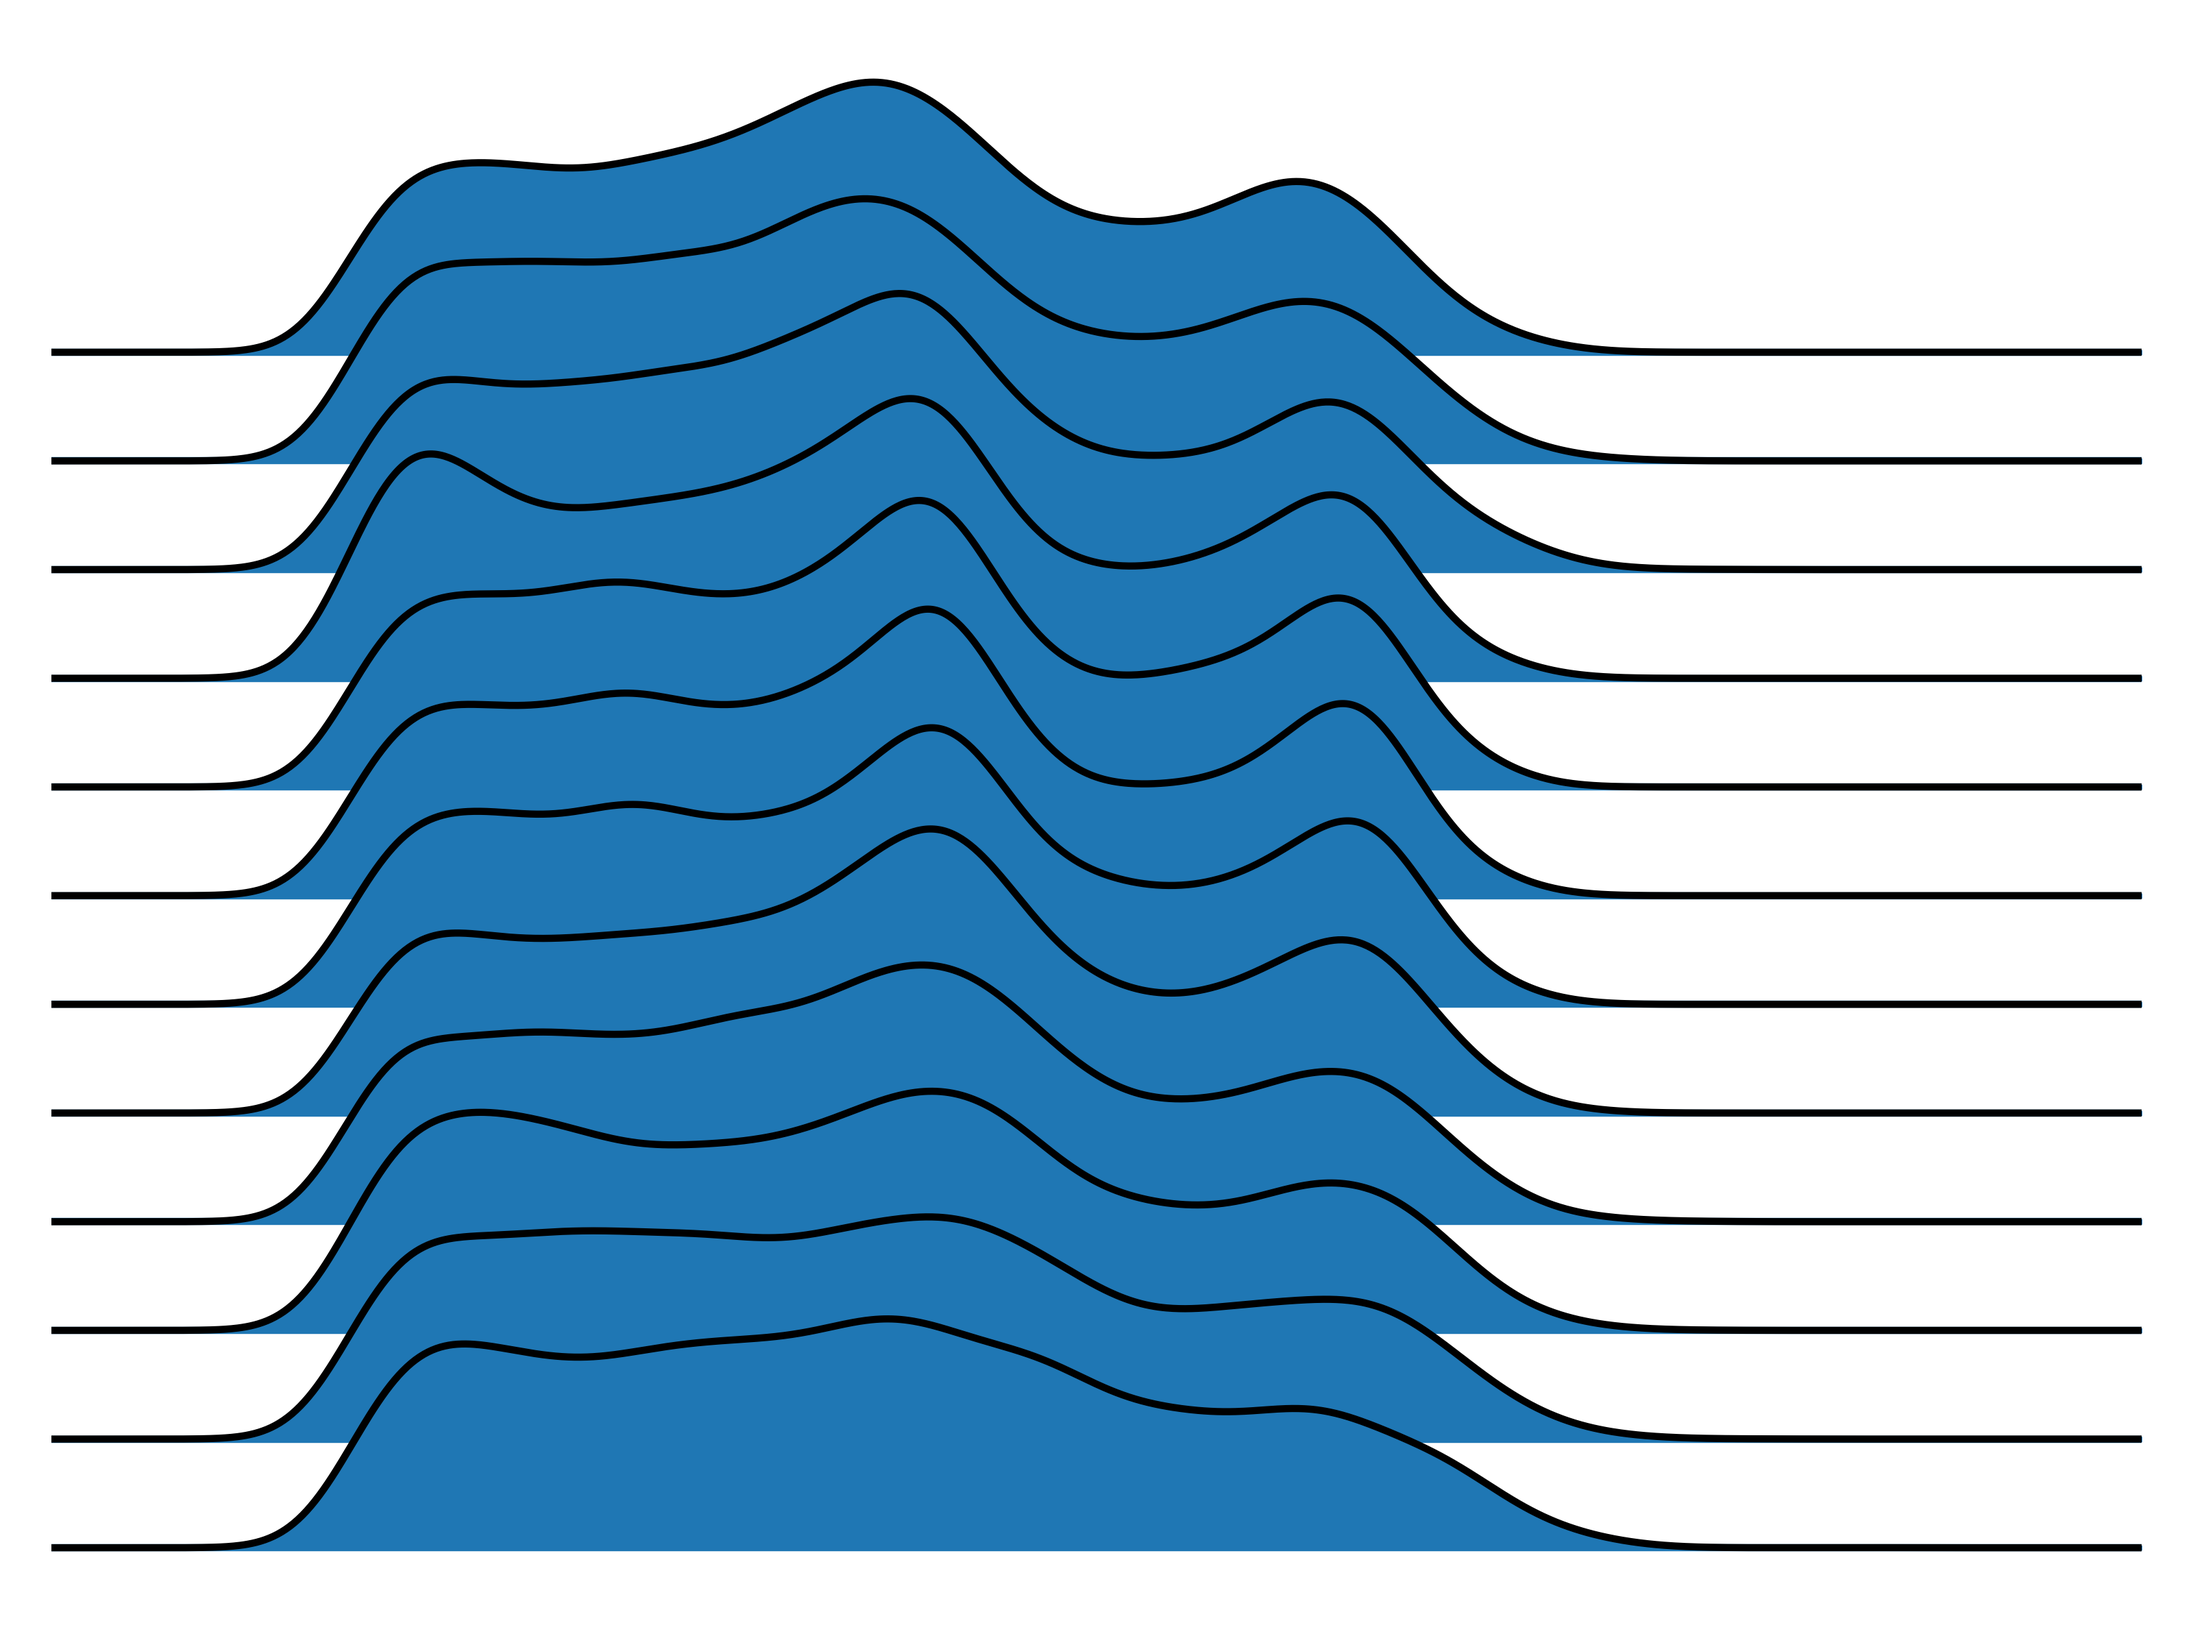
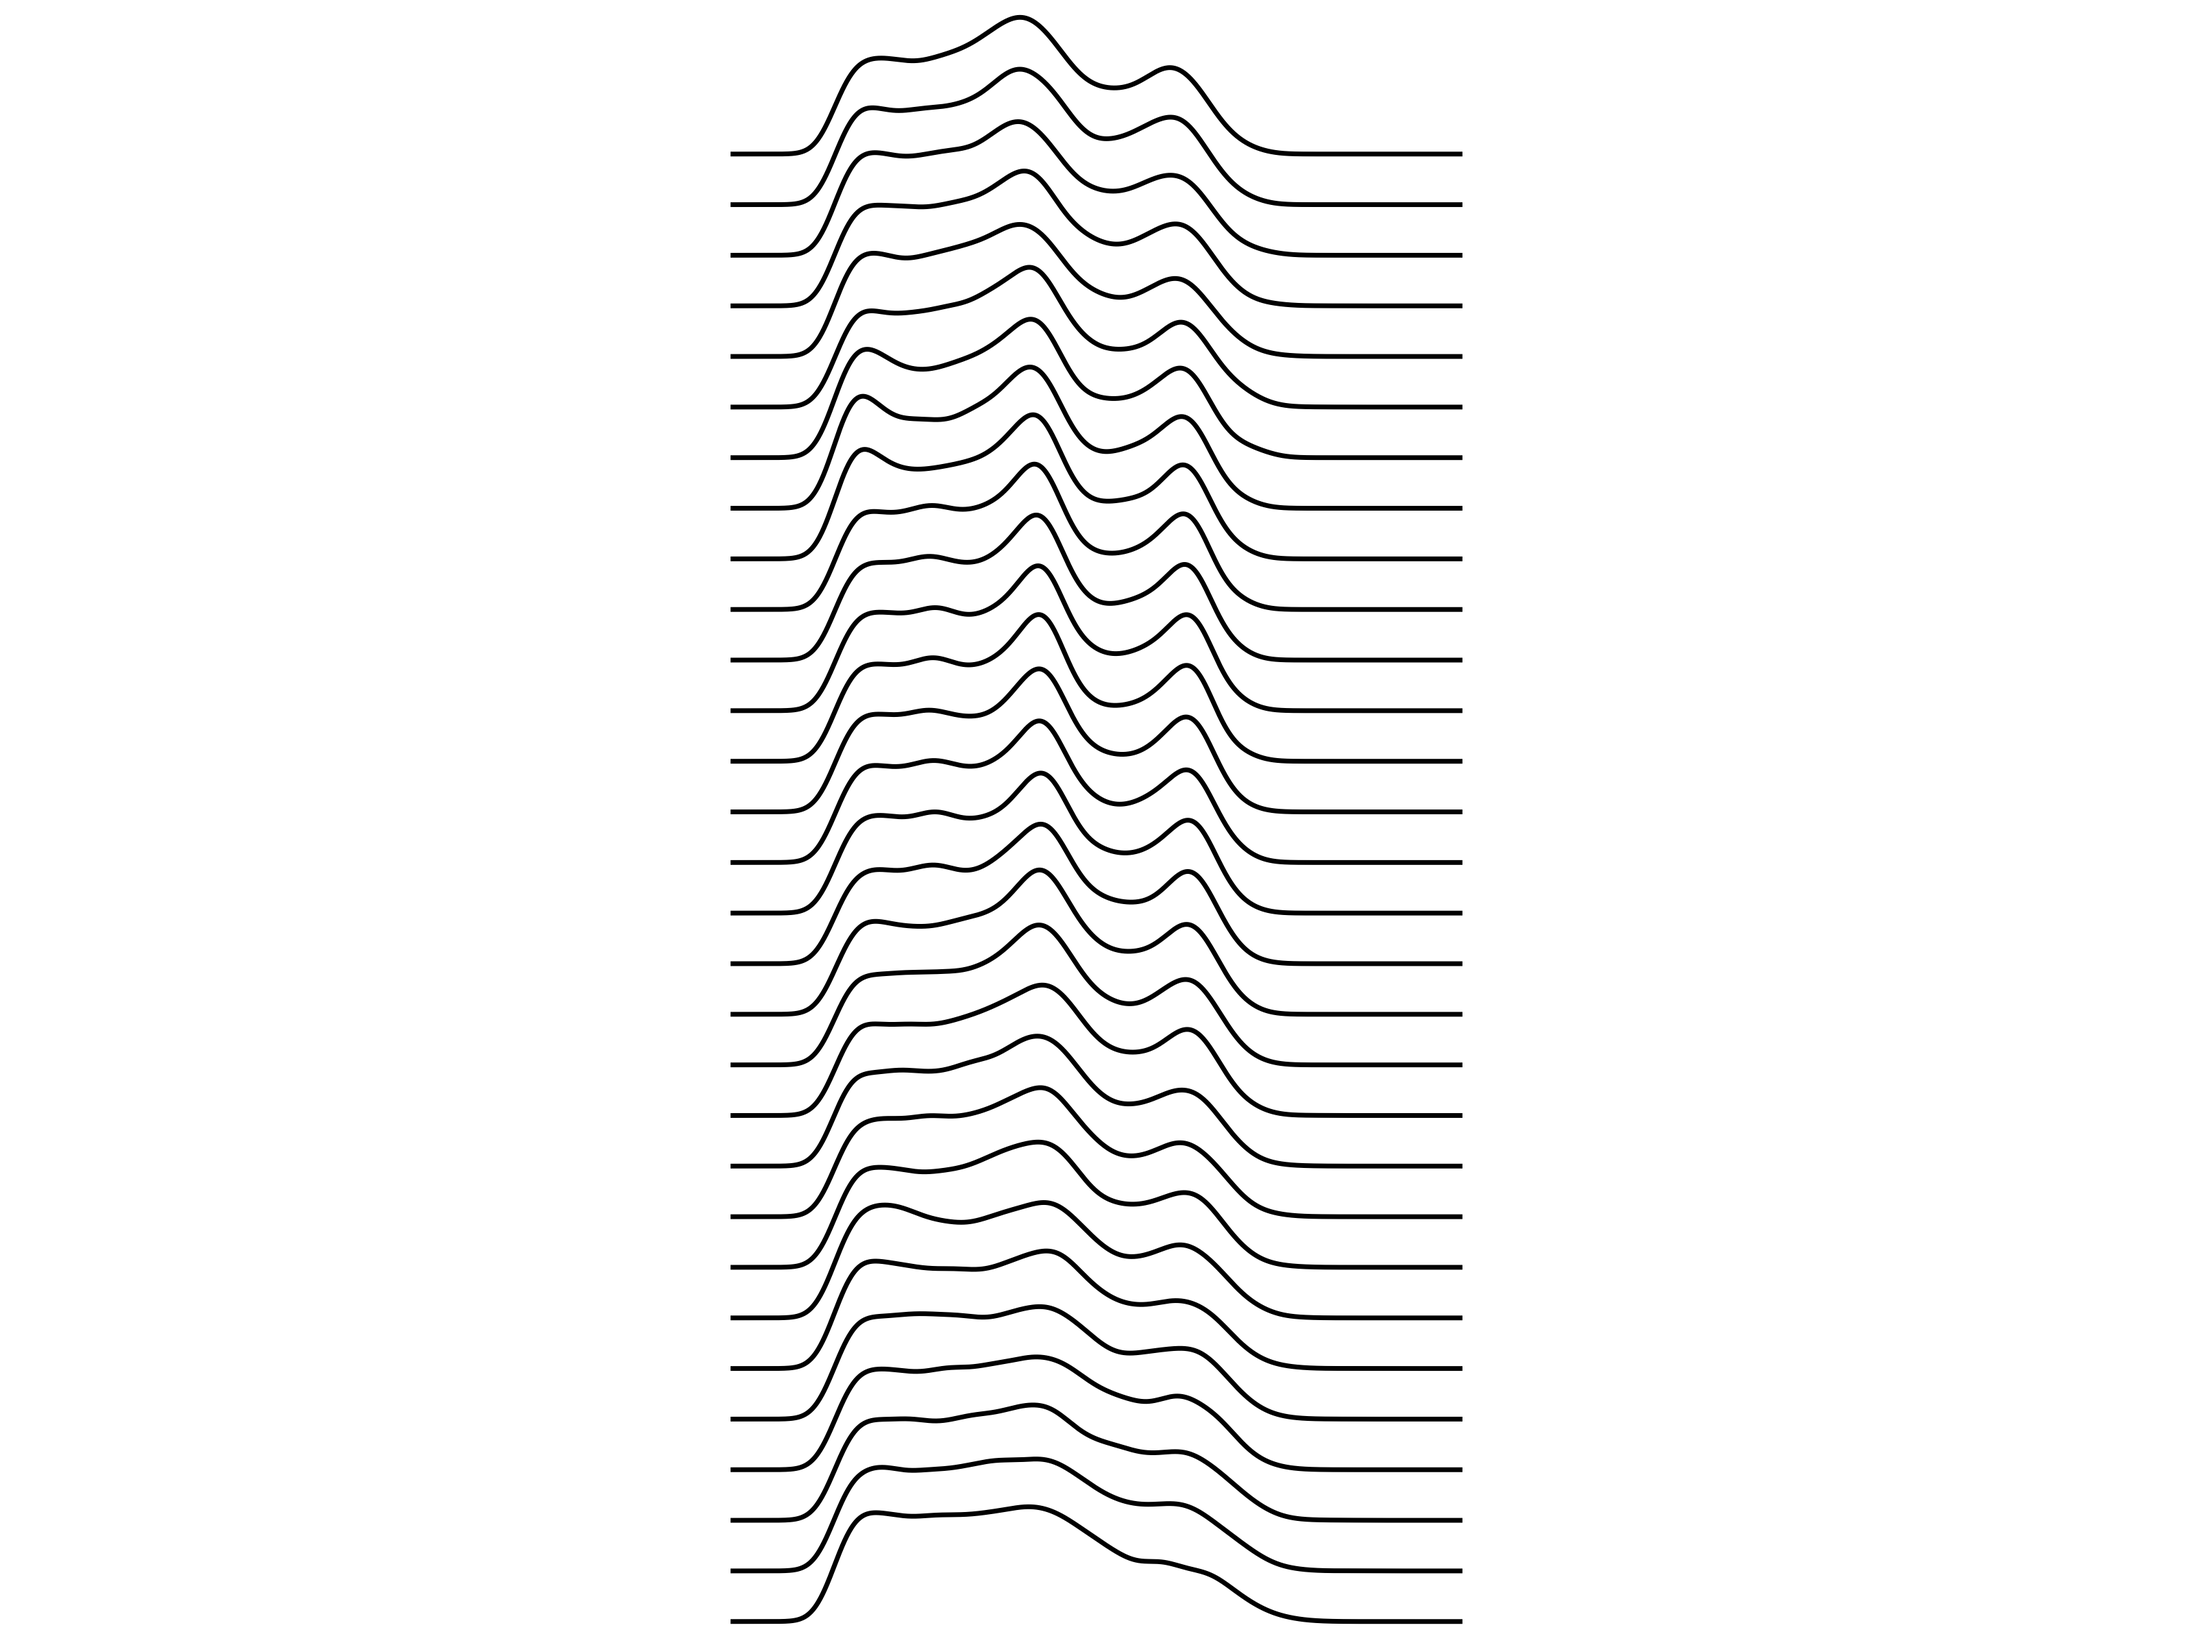
prettier!

diff --git a/joyPlotter.py b/joyPlotter.py
@@ -27,7 +27,7 @@ for file in os.listdir('wavs'):
     print("Length:", length)
 
     # now let's take every m sections
-    x = 5
+    x = 2
     m = int(length)//x # and...every xth second?
     mths = []
     stepsize = len(data)//m
@@ -53,7 +53,14 @@ for file in os.listdir('wavs'):
     fig, axes = joypy.joyplot(
         data=df,
         xlabels=False,
-        ylabels=False
+        ylabels=False,
+        grid=False, fill=False, background='w', linecolor="k", linewidth=1,
+        legend=False, overlap=0.5,
+        #figsize=(6,5)
     )
+
+    plt.subplots_adjust(left=.333, right=.667, top=1, bottom=0) # rule of thirds!
+    #for a in axes[:-1]:
+    #    a.set_xlim([-1*mFirstSeconds.shape[1],2*mFirstSeconds.shape[1]])
     plt.savefig('plots/'+file[:-4]+'.png', dpi=500)
     #plt.show()
